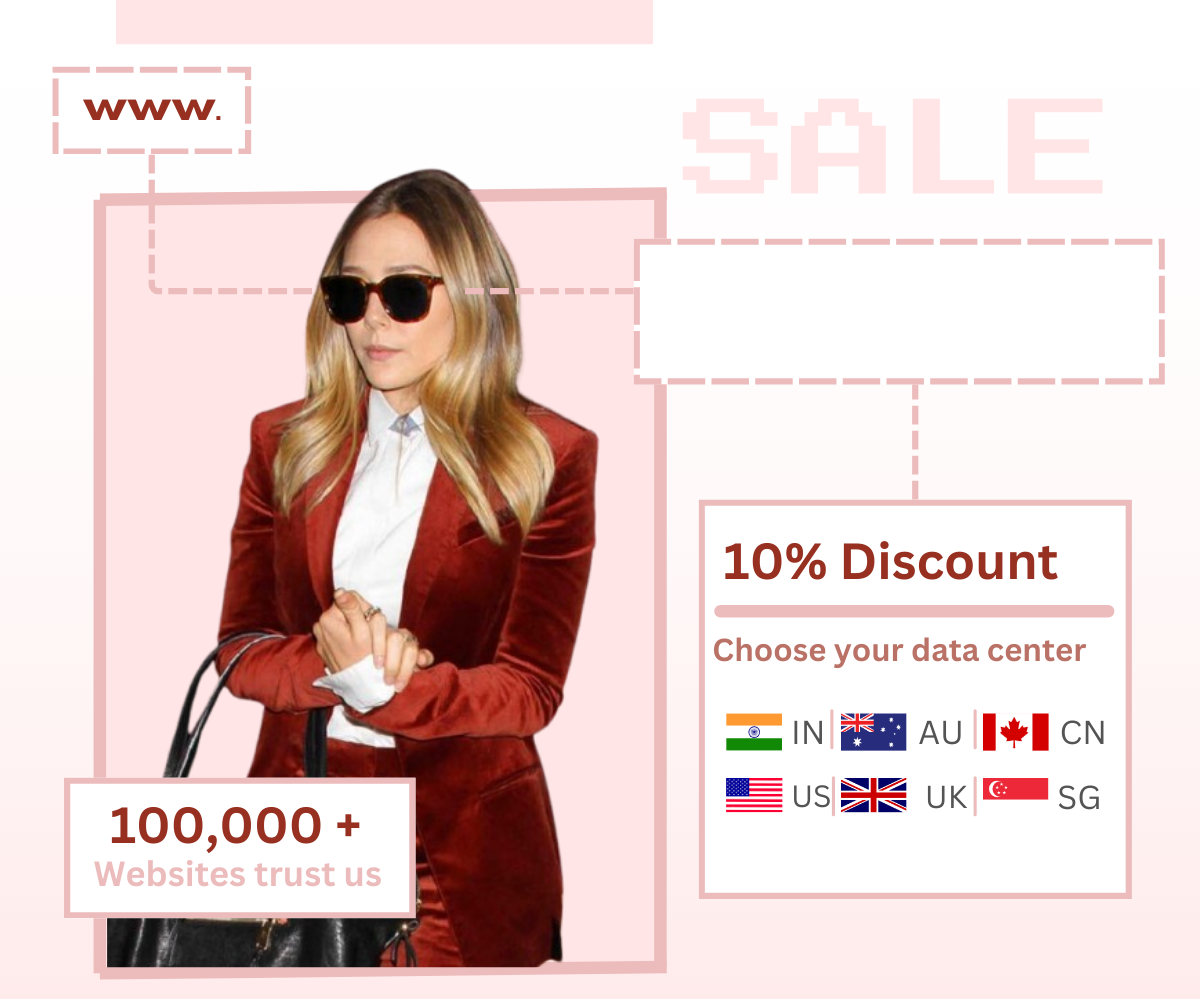
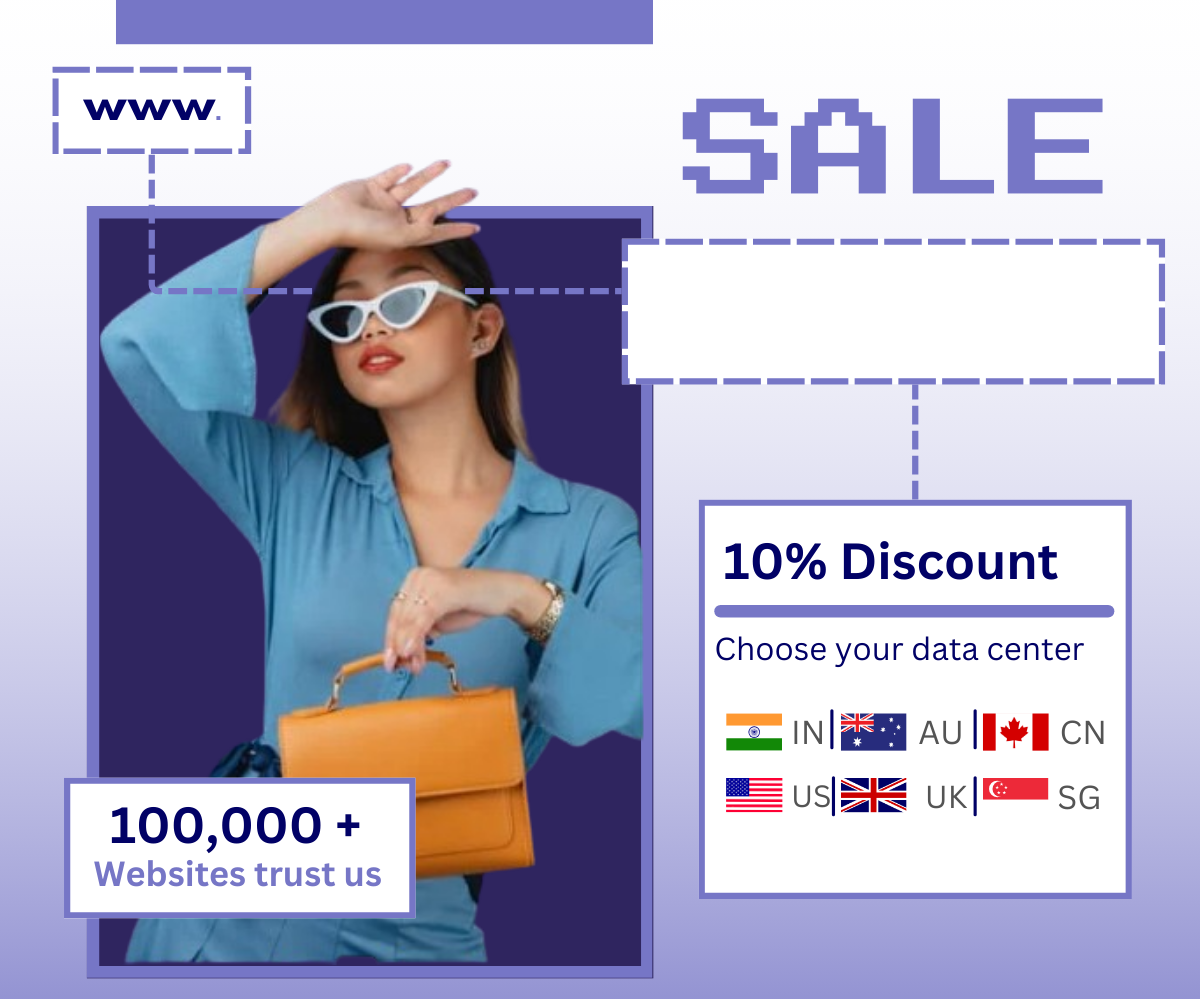
update

diff --git a/buy.html b/buy.html
@@ -1,0 +1,138 @@
+<!DOCTYPE html>
+<html lang="en">
+<head>
+    <meta charset="UTF-8">
+    <meta name="viewport" content="width=device-width, initial-scale=1.0">
+    <title>Shopping Cart-Webant</title>
+    <link href="https://cdn.jsdelivr.net/npm/bootstrap-icons/font/bootstrap-icons.css" rel="stylesheet">
+    <link href="https://cdn.jsdelivr.net/npm/bootstrap@5.3.0-alpha1/dist/css/bootstrap.min.css" rel="stylesheet">
+    <script src="https://cdn.jsdelivr.net/npm/bootstrap@5.3.0-alpha1/dist/js/bootstrap.bundle.min.js"></script>
+    <link rel="stylesheet" href="style.css">
+</head>
+<body>
+    <nav class="navbar navbar-expand-lg navbar-light bg-light">
+        <div class="container-fluid px-lg-5">
+            <a class="navbar-brand" href="#"><img src="assets/logo.png" alt=""
+                    style="width: 16vh;"></a>
+            <a href="#"><i class="bi bi-cart3 fs-4 cart"></i></a>
+        </div>
+    </nav>
+    <div class="container-fluid px-3 px-lg-5 py-5">
+        <h1>
+            Choose a Domain...
+        </h1>
+        <p>
+            Selected Product: Shared Hosting - Elite
+        </p>
+
+        <form class="mt-5 shadow-lg rounded-4">
+            <div class="mb-3 p-md-5">
+                <div class="form-check">
+                    <input class="form-check-input" type="radio" name="domainOption" id="registerDomain" checked>
+                    <label class="form-check-label" for="registerDomain">
+                        Register a new domain
+                    </label>
+                </div>
+                <div class="form-check">
+                    <input class="form-check-input" type="radio" name="domainOption" id="transferDomain">
+                    <label class="form-check-label" for="transferDomain">
+                        Transfer your domain from another registrar
+                    </label>
+                </div>
+                <div class="form-check">
+                    <input class="form-check-input" type="radio" name="domainOption" id="useExistingDomain">
+                    <label class="form-check-label" for="useExistingDomain">
+                        I will use my existing domain and update my nameservers
+                    </label>
+                </div>
+            </div>
+            <div class="container-fluid rounded-bottom-4 p-md-5 bg-primary">
+                <div class="row">
+                    <div class="col-md-7">
+                        <input type="text" class="form-control" placeholder="Enter your domain name">
+                    </div>
+                    <div class="col-md-3">
+                        <select class="form-select">
+                            <option>.com</option>
+                            <option>.in</option>
+                            <option>.ai</option>
+                            <option>.io</option>
+                            <option>.net</option>
+                            <option>.org</option>
+                        </select>
+                    </div>
+                    <div class="col-md-2">
+                        <button type="submit" class="btn btn-light">Continue</button>
+                    </div>
+                </div>
+            </div>
+        </form>
+    </div>
+    <div class="container-fluid mt-5 pt-5" style="background: #061a40;">
+        <div class="row">
+            <div class="col-md-3 px-4">
+                <img src="assets/logo-white.png" alt="Company Logo" class="img-fluid mb-3" style="max-width: 150px;">
+                <p class="text-light">Founded in 2024 with an aim to gain good marks in FSD practicals.</p>
+                <div class="d-flex gap-3" id="social">
+                    <a href="#"><i class="bi bi-facebook fs-4 text-secondary"></i></a>
+                    <a href="#"><i class="bi bi-twitter fs-4 text-secondary"></i></a>
+                    <a href="#"><i class="bi bi-instagram fs-4 text-secondary"></i></a>
+                    <a href="#"><i class="bi bi-linkedin fs-4 text-secondary"></i></a>
+                </div>
+            </div>
+
+            <div class="col-md-3 lista">
+                <h4 class="fw-bold text-light">Hosting</h4>
+                <ul class="list-unstyled">
+                    <li class="text-light">Web Hosting</li>
+                    <li class="text-light">Free Domain</li>
+                    <li class="text-light">Shared Hosting</li>
+                    <li class="text-light">Cloud Hosting</li>
+                    <li class="text-light">WordPress Hosting</li>
+                    <li class="text-light">WooCommerce Hosting</li>
+                    <li class="text-light">Reseller Hosting</li>
+                    <li class="text-light">Magento Hosting</li>
+                    <li class="text-light">Node.js Hosting</li>
+                    <li class="text-light">Laravel Hosting</li>
+                    <li class="text-light">Python Hosting</li>
+                </ul>
+            </div>
+
+            <div class="col-md-3 lista">
+                <h4 class="fw-bold text-light">Servers</h4>
+                <ul class="list-unstyled">
+                    <li class="text-light">VPS Hosting</li>
+                    <li class="text-light">Windows VPS</li>
+                    <li class="text-light">Managed VPS</li>
+                    <li class="text-light">cPanel VPS</li>
+                    <li class="text-light">Forex VPS</li>
+                    <li class="text-light">CyberPanel VPS</li>
+                    <li class="text-light">Plesk VPS</li>
+                    <li class="text-light">Virtual Dedicated Server</li>
+                    <li class="text-light">Dedicated Server</li>
+                    <li class="text-light">Bare Metal</li>
+                    <li class="text-light">GPU Dedicated Server</li>
+                </ul>
+            </div>
+
+            <div class="col-md-3">
+                <h4 class="fw-bold text-light">Cloud</h4>
+                <ul class="list-unstyled lista">
+                    <li class="text-light">Cloud VPS</li>
+                    <li class="text-light">GPU Cloud</li>
+                    <li class="text-light">Managed AWS Cloud</li>
+                    <li class="text-light">Acronis Backup</li>
+                    <li class="text-light">Google Workspace</li>
+                </ul>
+                <h4 class="fw-bold mt-4 text-light">Tools</h4>
+                <ul class="list-unstyled lista">
+                    <li class="text-light">AI Logo Maker</li>
+                    <li class="text-light">AI Website Builder</li>
+                    <li class="text-light">Smart Web Tools</li>
+                </ul>
+            </div>
+        </div>
+    </div>
+    <script src="https://cdn.jsdelivr.net/npm/bootstrap@5.3.0/dist/js/bootstrap.bundle.min.js"></script>
+</body>
+</html>

diff --git a/index.html b/index.html
@@ -15,7 +15,7 @@
     <nav class="navbar navbar-expand-lg navbar-light bg-light">
         <div class="container-fluid">
             <a class="navbar-brand" href="#"><img src="assets/logo.png" alt=""
-                    style="width: 12vw; margin-left: 30px;"></a>
+                    style="width: 16vh; margin-left: 30px;"></a>
             <button class="navbar-toggler" type="button" data-bs-toggle="collapse"
                 data-bs-target="#navbarSupportedContent" aria-controls="navbarSupportedContent" aria-expanded="false"
                 aria-label="Toggle navigation">
@@ -102,7 +102,7 @@
             <div class="col-12 col-md-6 px-5">
                 <div class="img-container" style="position: relative;;">
                     <img src="assets/front-page-1.png" alt="Web Hosting Promo" class="img-fluid"
-                        style="border: 3px solid #ffe5e5;">
+                        style="border: 3px solid #7676c6;">
                     <!-- <p class="blinking-text">
                         80% Off
                     </p> -->
@@ -946,8 +946,8 @@
     </div>
     <!-- finish -->
 
-    <div class="container-fluid mt-5 pt-5" style="background: #061a40;">
-        <div class="row">
+    <div class="container-fluid mt-5 py-5" style="background: #061a40;">
+        <div class="row ps-md-5 pb-5">
             <div class="col-md-3 px-4">
                 <img src="assets/logo-white.png" alt="Company Logo" class="img-fluid mb-3" style="max-width: 150px;">
                 <p class="text-light">Founded in 2024 with an aim to gain good marks in FSD practicals.</p>
@@ -1008,6 +1008,18 @@
                     <li class="text-light">AI Website Builder</li>
                     <li class="text-light">Smart Web Tools</li>
                 </ul>
+            </div>
+        </div>
+        <div class="row ps-md-5 mb-5 border-bottom">
+            <div class="col-12 col-md-6 text-light">*The offer price is for the first term only; renewal is at a <span class="text-decoration-underline text-light">competitive rate.</span></div>
+            <div class=" col-12 col-md-6">
+                <div class="d-flex align-items-end">
+                    <img src="assets/svg/visa_icon.svg" alt="Visa" class="img-fluid m-1" style="width: 50px;">
+                    <img src="assets/svg/netbanking_icon.svg" alt="NetBanking" class="img-fluid m-1" style="width: 50px;">
+                    <img src="assets/svg/mastercard_icon.svg" alt="MasterCard" class="img-fluid m-1" style="width: 50px;">
+                    <img src="assets/svg/rupay_icon.svg" alt="RuPay" class="img-fluid m-1" style="width: 50px;">
+                    <span class="fw-bold text-primary">More Payment Options</span>
+                </div>
             </div>
         </div>
     </div>   

diff --git a/style.css b/style.css
@@ -19,14 +19,14 @@
 }
 
 .btn:not(.btn-primary, .btn-light) {
-    background: #ffc7c7;
-    border: 1px solid #f48989;
-    color: #ed6f6f;
+    background: #7676c6;
+    border: 1px solid #5d5dc6;
+    color: #ffffff;
 }
 
 .btn:hover:not(.btn-primary, .btn-light) {
-    background: #ed6f6f;
-    border: 1px solid #ed6f6f;
+    background: #5d5dc6;
+    border: 2px solid #4949c6;
     color: #ffffff;
     transform: scale(1.04);
     transition: 0.2s;
@@ -34,22 +34,22 @@
 
 .card.activeCard .btn.btn-lg {
     transform: scale(1.04);
-    background: #ed6f6f;
-    border: 1px solid #ed6f6f;
+    background: #5d5dc6;
+    border: 1px solid #4949c6;
     color: #ffffff;
 }
 
 .plans .card.activeCard {
     height: 100%;
-    border: 2px solid #f48989;
-    box-shadow: 0 0 5px #f48989;
+    border: 2px solid #7676c6;
+    box-shadow: 0 0 5px #5d5dc6;
 }
 
 .plans .card:hover {
     height: 100%;
     transform: scale(1.04);
     transition: 0.4s;
-    box-shadow: 0 0 10px #f48989;
+    box-shadow: 0 0 10px #7676c6;
 }
 
 .lista li {
@@ -79,7 +79,7 @@
 }
 
 .navbar-nav .nav-item:hover {
-    background: #ffe5e5;
+    background: #7373cc2d;
     border-radius: 10px;
     transition: all 0.3s ease;
 }
@@ -92,7 +92,7 @@
     top: 24.5%;
     left: 59%;
     /* transform: translate(-50%, -50%); */
-    color: #ffc7c7;
+    color: #7676c6;
     animation: blink-animation 0.7s infinite step-start;
 }
 
@@ -162,6 +162,13 @@
 #high-speed div div {
     height: 100%;
     background: greenyellow;
+}
+
+.cart{
+    color: gray;
+}
+.cart:hover{
+    color: rgb(0, 127, 255);
 }
 
 #migration div div{
